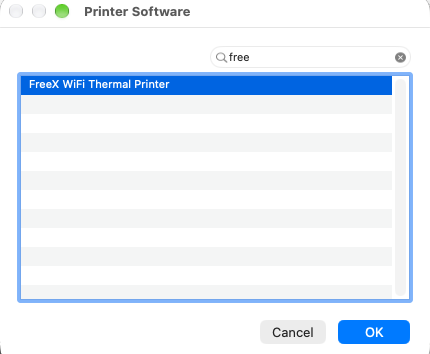
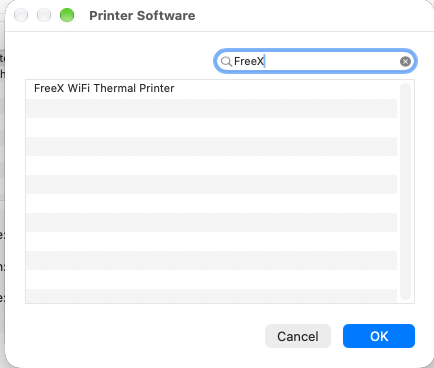
Add the full driver list screenshot to the USB setup section
Shows FreeX WiFi Thermal Printer among the other installed drivers (DYMO,
Epson, HP, Oki, Zebra), which gives readers two things the filtered view
alone does not: a way to confirm the driver actually registered with macOS
after installing the .pkg, and a concrete picture of the window where the
real driver must be chosen instead of Generic PostScript or Generic PCL.

Also replaces the filtered screenshot with a fresh capture so the two
figures match visually - the new pair has window shadows. Resolution is
unchanged (the display captures at 1x), so this is a consistency fix
rather than a quality upgrade.

Both images are freshly captured, contain no personal information, and
carry no metadata.

diff --git a/README.md b/README.md
@@ -601,9 +601,15 @@ Wi-Fi-specific is configuring the wireless credentials in the Toolbox.
 5. Pick your printer's driver — for FreeX, **FreeX WiFi Thermal Printer**.
 6. Click **Add**.
 
-![The Printer Software window with "free" typed in the search box and FreeX WiFi Thermal Printer selected](docs/images/select-printer-software.png)
+![The macOS Printer Software window listing installed printer drivers including DYMO Label Printer, Epson, FreeX WiFi Thermal Printer, HP, Oki and Zebra](docs/images/printer-software-list.png)
 
-*Step 5 is the one people skip. Search `free`, select **FreeX WiFi Thermal Printer**, click OK.*
+*The installed driver list. **FreeX WiFi Thermal Printer** sits between Epson and HP. If it isn't
+listed at all, the driver package didn't install — run the `.pkg` again before going further.*
+
+![The Printer Software window with FreeX typed into the filter box, narrowing the list to FreeX WiFi Thermal Printer](docs/images/select-printer-software.png)
+
+*Faster: type `FreeX` in the filter box, select it, click **OK**. This is the step people skip — and
+skipping it is what leaves macOS on a generic driver.*
 
 **Do not accept a generic driver.** If macOS auto-fills *Generic PostScript Printer* or *Generic PCL
 Printer*, change it. A thermal label printer understands neither PostScript nor PCL, and a generic
